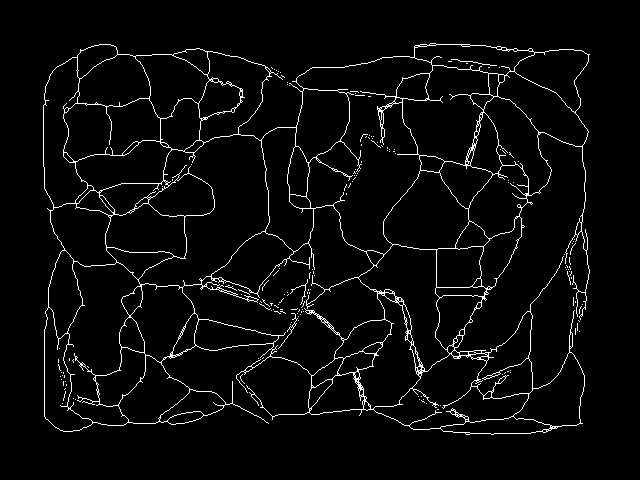
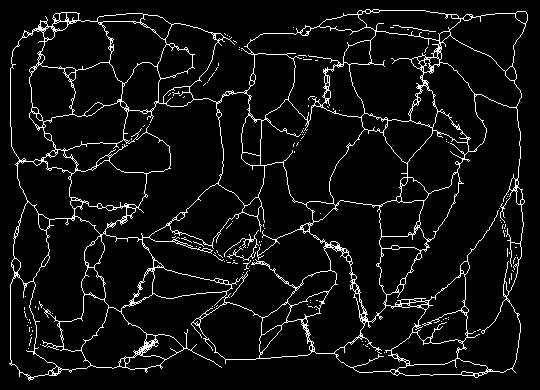
Huge success on map8 and rewards betweeen [-1, 1]

diff --git a/gym_offroad_nav/sensors.py b/gym_offroad_nav/sensors.py
@@ -1,7 +1,9 @@
 import cv2
 import abc
+import math
 import numpy as np
 import time
+from numba import jit
 from gym_offroad_nav.utils import to_image
 from gym import spaces
 
@@ -59,10 +61,23 @@ def rotated_rect(img, (cx, cy), (width, height), angle, scale=1):
 
     warped = cv2.warpAffine(
         img, M, (width, height), flags=cv2.WARP_INVERSE_MAP + cv2.INTER_LINEAR,
-        # borderMode=cv2.BORDER_REPLICATE
+        borderMode=cv2.BORDER_REPLICATE
     )
 
     return warped
+
+# @jit
+def compute_obj_ixiy(obj_positions, state, fov, cell_size):
+    theta = state[2]
+    cos, sin = math.cos(theta), math.sin(theta)
+    M = np.array([[cos, sin], [-sin, cos]])
+
+    dxy = obj_positions - state[:2][..., None]
+    dxy = M.dot(dxy)
+    ixs, iys = (dxy / cell_size).astype(np.int)
+    ixs, iys = ixs + fov/2, fov - 1 - iys
+
+    return ixs, iys
 
 # This sensor model return the front view of the vehicle as an image of shape
 # fov x fov, where fov is the field of view (how far you see).
@@ -74,11 +89,12 @@ class FrontViewer(SensorModel):
         self.field_of_view = field_of_view
         self.noise_level = noise_level
 
-        self.rewards = self.map.rewards[..., None].astype(np.float32)
-        self.rgb_map = self.map.rgb_map.astype(np.float32) / 255
-
-        R = self.rewards
-        C = self.rgb_map
+        # centralize the reward map, and rgb_map
+        rewards = self.map.rewards[..., None].astype(np.float32)
+        # self.reward_mean, self.reward_std = np.mean(rewards), np.std(rewards)
+        # self.rewards = (rewards - self.reward_mean) / self.reward_std
+        self.rewards = rewards
+        self.rgb_map = self.map.rgb_map.astype(np.float32) / 127.5 - 1
 
         self.images = None
 
@@ -97,13 +113,34 @@ class FrontViewer(SensorModel):
         n_channels = self.num_features()
         images = np.zeros((n_agents, fov, fov, n_channels), dtype=np.float32)
 
-        W = self.get_waypoint_map(n_agents)
+        # W = self.get_waypoint_map(n_agents)
 
-        for i, (cx, cy, angle) in enumerate(zip(cxs, cys, angles)):
-            features = np.concatenate([self.rewards, self.rgb_map, W[i]], axis=-1)
-            images[i] = rotated_rect(features, (cx, cy), (fov, fov), angle)
+        obj_positions = np.concatenate([obj.position for obj in self.map.dynamic_objects], axis=-1)
+        radius = int(obj.radius / self.map.cell_size)
+        circle_opts = dict(color=(1, 1, 1), thickness=-1, radius=radius)
+
+        for i, (cx, cy, angle, s) in enumerate(zip(cxs, cys, angles, state.T)):
+            # features = np.concatenate([self.rewards, self.rgb_map, W[i]], axis=-1)
+            # features = np.concatenate([self.rewards, W[i]], axis=-1)
+            images[i] = rotated_rect(self.rewards, (cx, cy), (fov, fov), angle)[..., None]
+
+            # iterate all dynamic_objects and draw on rotated_and_cropped image
+            valids = [
+                ((isinstance(obj.valid, bool) and obj.valid) or obj.valid[i])
+                for obj in self.map.dynamic_objects
+            ]
+            ixs, iys = compute_obj_ixiy(obj_positions, s, fov, self.map.cell_size)
+
+            for ix, iy, valid in zip(ixs, iys, valids):
+                if valid:
+                    cv2.circle(images[i], (ix, iy), **circle_opts)
 
         self.images = images
+
+        # print " ===================== "
+        # print np.max(images[..., 0:1]), np.min(images[..., 0:1])
+        # print np.max(images[..., 1:4]), np.min(images[..., 1:4])
+        # print np.max(images[..., 4:5]), np.min(images[..., 4:5])
 
         return images
 
@@ -122,7 +159,7 @@ class FrontViewer(SensorModel):
         return images
 
     def num_features(self):
-        return 5
+        return 1
 
     def get_output_shape(self):
         m = int(self.field_of_view)
@@ -139,24 +176,28 @@ class FrontViewer(SensorModel):
 
         n_agents, h, w = self.images.shape[:3]
 
-        min_reward = min(self.map.class_id_to_rewards)
-        max_reward = max(self.map.class_id_to_rewards)
+        reward_min = -1 # np.min(self.map.class_id_to_rewards)
+        reward_max = +1 # max(1, np.max(self.map.class_id_to_rewards))
+
+        def unnormalize(x):
+            # x = x * self.reward_std + self.reward_mean
+            x = (x - reward_min) / (reward_max - reward_min)
+            return x
 
         # visualization (for debugging purpose)
-        disp_img = np.zeros((3*h, n_agents*w, 3), dtype=np.float32)
+        disp_img = np.zeros((1*h, n_agents*w, 3), dtype=np.float32)
         for i, img in enumerate(self.images):
             s = slice(i*w, (i+1)*w)
-            # disp_img[0*h:1*h, s] += (img[..., 0:1] * 255).astype(np.uint8)
-            disp_img[0*h:1*h, s] += (img[..., 0:1] - min_reward) / (max_reward - min_reward)
-            disp_img[1*h:2*h, s]  = img[..., [3, 2, 1]]
-            disp_img[2*h:3*h, s] += img[..., 4:5]
+            disp_img[0*h:1*h, s] += unnormalize(img[..., 0:1])
+            # disp_img[1*h:2*h, s]  = (img[..., [3, 2, 1]] + 1) / 2
+            # disp_img[2*h:3*h, s] += img[..., -1:]
 
         cv2.imshow("front_view", disp_img)
         cv2.waitKey(1)
 
     def get_waypoint_map(self, n_agents):
 
-        m = np.zeros((n_agents,) + self.rewards.shape, dtype=np.float32)
+        m = -np.ones((n_agents,) + self.rewards.shape, dtype=np.float32)
         bounds = self.map.bounds
         fov = self.field_of_view
 
@@ -169,7 +210,7 @@ class FrontViewer(SensorModel):
                 if (isinstance(obj.valid, bool) and obj.valid) or obj.valid[i]:
                     color = (1, 1, 1)
                 else:
-                    color = (0, 0, 0)
+                    color = (-1, -1, -1)
 
                 cv2.circle(m[i], (x, y), color=color, thickness=-1,
                            radius=int(obj.radius / self.map.cell_size))

diff --git a/gym_offroad_nav/offroad_map.py b/gym_offroad_nav/offroad_map.py
@@ -76,11 +76,12 @@ class OffRoadMap(object):
 
         # downsample the waypoints by 10 so that coins won't be too crowded.
         # Also, skip the first waypoint, since it's the start point
+        step = int(self.waypoint.distance_between / self.cell_size)
         self.dynamic_objects = [
             Coin(
                 map=map, position=waypoint, radius=radius,
                 reward=reward + goal_r * (i == len(self.waypoints) - 1)
-            ) for i, waypoint in enumerate(self.waypoints[1::10])
+            ) for i, waypoint in enumerate(self.waypoints[1::step])
         ]
 
     def get_interactables(self):
@@ -99,15 +100,16 @@ class OffRoadMap(object):
 
         waypoints = np.array([x, y]).T
 
-        step = int(len(waypoints) * 0.70 / self.n_agents_per_worker)
+        half = int(self.n_agents_per_worker / 2)
+        step = int(len(waypoints) * 0.70 / half)
 
         initial_pose = np.zeros((6, self.n_agents_per_worker))
         for i in range(self.n_agents_per_worker):
 
             # w0 is the start point, w1 is used to determine the initial angle
             # use step*i + 5 instead of +1 because +1 is just 1px away
-            w0 = waypoints[step*i]
-            w1 = waypoints[step*i+5]
+            w0 = waypoints[step*(i-half)                  ]
+            w1 = waypoints[step*(i-half)+5*np.sign(i-half)]
 
             dx, dy = w1 - w0
             theta = np.arctan2(dy, dx) - np.pi / 2
@@ -179,7 +181,7 @@ class OffRoadMap(object):
         return c
 
     def in_tree(self, state):
-        return self.get_class(*state[:2]) == 7
+        return self.get_class(*state[:2]) >= 5
 
     def _init_boundary(self):
 

diff --git a/gym_offroad_nav/interactable.py b/gym_offroad_nav/interactable.py
@@ -87,6 +87,7 @@ class Vehicle(rendering.Geom):
         self.transform = rendering.Transform2D(pose=pose)
 
         # vertices of vehicles
+        # TODO use cell size to determine how large we draw on canvas
         h, w = size, size / 2
         r, l, t, b = w/2, -w/2, h/2, -h/2
         vertices = [(l,b), (l,t), (r,t), (r,b), (0, 0), (l, b), (r, b)]
@@ -144,6 +145,10 @@ class OffRoadScene(Interactable):
     def __init__(self, *args, **kwargs):
         super(OffRoadScene, self).__init__(**kwargs)
 
+        self.impact_penalty    = self.map.impact_penalty
+        self.reverse_penalty   = self.map.reverse_penalty
+        self.low_speed_penalty = eval(self.map.low_speed_penalty_function)
+
         sigma = 3
         # blur the reward map to get a more continuous (smoother) reward
         self.rewards = cv2.GaussianBlur(self.map.rewards, (sigma, sigma), 0)
@@ -153,14 +158,14 @@ class OffRoadScene(Interactable):
         r = self._bilinear_reward_lookup(x, y)
 
         classes = self.map.get_class(x, y)
-        impact = (classes == 7)
+        impact = (classes >= 5)
 
         vel = get_speed(state)
-        impact_penalty = -10. * impact * vel
-        reverse_penalty = np.minimum(state[4], 0)
-        low_speed_penalty = -1e-1 / (vel + 1e-1)
+        impact_penalty = self.impact_penalty * impact * vel
+        reverse_penalty = self.reverse_penalty * np.abs(np.minimum(state[4], 0))
+        low_speed_penalty = self.low_speed_penalty(state[4])
 
-        reward = r + impact_penalty + low_speed_penalty + reverse_penalty
+        reward = r - impact_penalty - low_speed_penalty - reverse_penalty
 
         return reward
 

diff --git a/gym_offroad_nav/envs/offroad_nav_env.py b/gym_offroad_nav/envs/offroad_nav_env.py
@@ -32,13 +32,13 @@ class OffRoadNavEnv(gym.Env):
         'max_mu_steer': +30 * DEG2RAD,
         'timestep': 0.025,
         'odom_noise_level': 0.02,
-        'vm_noise_level': 0, #0.02,
-        'initial_pose_noise': [1, 1, 5 * DEG2RAD, 0.5, 0, 5 * DEG2RAD],
+        'vehicle_model_noise_level': 0.02,
+        'initial_pose_noise': [0, 0, 5 * DEG2RAD, 0.5, 0, 5 * DEG2RAD],
         'wheelbase': 2.0,
-        'map_def': 'map7',
+        'map_def': 'map8',
         'command_freq': 5,
         'n_agents_per_worker': 32,
-        'viewport_scale': 4,
+        'viewport_scale': 2,
         'discount_factor': 0.99,
         'max_steps': 100,
         'drift': False
@@ -78,12 +78,12 @@ class OffRoadNavEnv(gym.Env):
 
         """
         self.vehicle_model_gpu = VehicleModelGPU(
-            self.opts.timestep, self.opts.vm_noise_level,
+            self.opts.timestep, self.opts.vehicle_model_noise_level,
             self.opts.wheelbase, self.opts.drift
         )
         """
         self.vehicle_model = VehicleModel(
-            self.opts.timestep, self.opts.vm_noise_level,
+            self.opts.timestep, self.opts.vehicle_model_noise_level,
             self.opts.wheelbase, self.opts.drift
         )
 

diff --git a/example.py b/example.py
@@ -33,26 +33,36 @@ for i in range(1000):
 
     total_return = 0
 
+    '''
+    actions = env.env.fit()
+    cv2.waitKey(0)
+    '''
+
+    i = 0
     while not np.any(done):
+        '''
+        if i >= len(actions): break
+        action = actions[i]
+        '''
         # sample actions for agents
         action = env.env.sample_action()
 
         # Change speed command so that it's more diverse (for debugging purpose)
         # action[0] *= np.arange(len(action[0])).astype(np.float) / 10
         action[0] = 5
-        action[1] *= 0
 
         # step in the environment
         state, reward, done, _ = env.step(action.squeeze())
 
         # collect the reward
         total_return += reward
-        print "total_return = {}".format(total_return)
+        # print "total_return = {}".format(total_return)
 
         # refresh OpenGL renderer
         env.render()
 
         # (optinal) if you want to slow it down
         # cv2.waitKey(0)
+        i += 1
 
-    print "\n"
+    # print "\n"

diff --git a/setup.py b/setup.py
@@ -20,7 +20,7 @@ os.environ["CC"]  = "g++"
 os.environ["CXX"] = "g++"
 
 ext = Extension(
-    "gym_offroad_nav.rotated_rect.rotated_rect", ["gym_offroad_nav/rotated_rect/rotated_rect.pyx"],
+    "gym_offroad_nav.vehicle_model.cython_impl", ["gym_offroad_nav/vehicle_model/cython_impl.pyx"],
     include_dirs = [numpy.get_include()], #, '/usr/local/include/opencv', '/usr/local/include'],
     # libraries = ['opencv_core', 'opencv_highgui', 'opencv_imgproc'],
     extra_compile_args=['-Wno-cpp', '-std=c++11', '-O3'],

diff --git a/gym_offroad_nav/global_planner.py b/gym_offroad_nav/global_planner.py
@@ -72,7 +72,7 @@ class GlobalPlanner(object):
     def seed(self, rng):
         self.rng = rng
 
-    def sample_path(self, graph, max_trial=30, debug=False):
+    def sample_path(self, graph, max_trial=40, debug=False):
         path = None
 
         # if BFS cannot find path between begin and end, a None value is

diff --git a/gym_offroad_nav/utils.py b/gym_offroad_nav/utils.py
@@ -41,7 +41,7 @@ def get_options_from_TF_flags(keys):
     return options
 
 class Timer(object):
-    def __init__(self, message, maxlen=10000):
+    def __init__(self, message, maxlen=1000):
         self.timer = deque(maxlen=maxlen)
         self.counter = 0
         self.message = message
